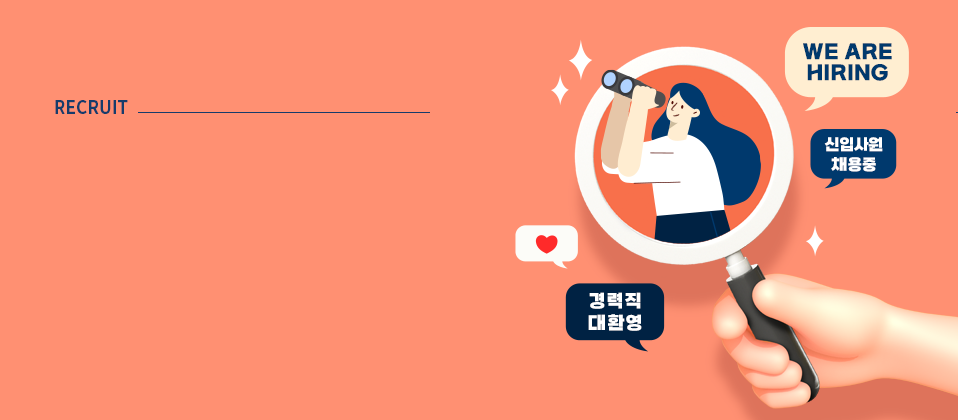
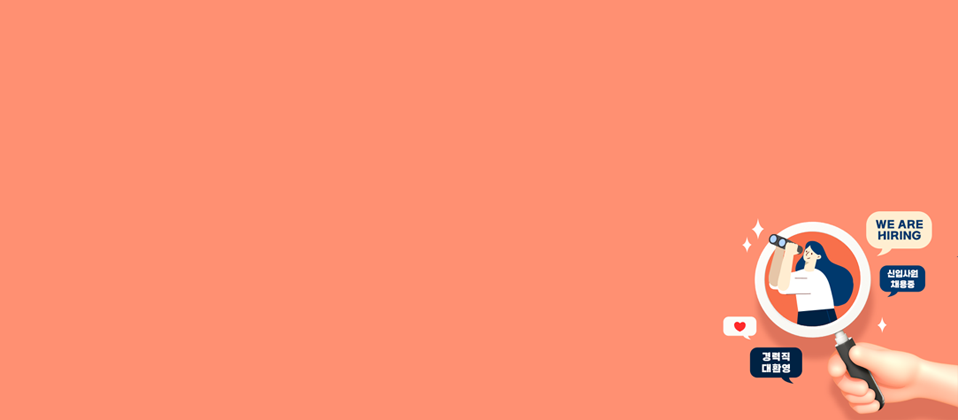
B템플릿 상단 변경

Changed region(s): [[0.5146, 0.0619, 1.0, 1.0], [0.0605, 0.2167, 0.1211, 0.2786], [0.999, 0.5881, 1.0, 0.619]]

diff --git a/ckeditor/templeteB.html b/ckeditor/templeteB.html
@@ -15,9 +15,9 @@
         .recruit_wrapper .space.second{height:8px;}
         .recruit_wrapper .header{
             background:#ff9072 url(https://cdn.jsdelivr.net/gh/kang2oon/entCompany/ckeditor/images/top_case2.png) no-repeat 50% 50%;
-            height:420px;box-sizing:border-box;padding:92px 528px 0 56px;
+            height:420px;box-sizing:border-box;padding:90px 56px 0 56px;text-align:center;
         }
-        .recruit_wrapper .header h2{color:#fff;font-size:48px;font-weight:700;line-height:1.3;}
+        .recruit_wrapper .header h2{color:#00396d;font-size:48px;font-weight:700;line-height:1.3;display:inline-block;box-shadow:inset 0 -24px 0 rgba(255,238,209,.5);}
         .recruit_wrapper h3{background:url(https://cdn.jsdelivr.net/gh/kang2oon/entCompany/ckeditor/images/bu_checkmark_ff9072.png) no-repeat 0% 50%;font-size:28px;font-weight:500;padding-left:32px;margin:24px 0 8px;}
         .recruit_wrapper .tbl{width:100%;border-collapse:collapse;}
         .recruit_wrapper .tbl thead th{padding:12px;font-weight:300;}
